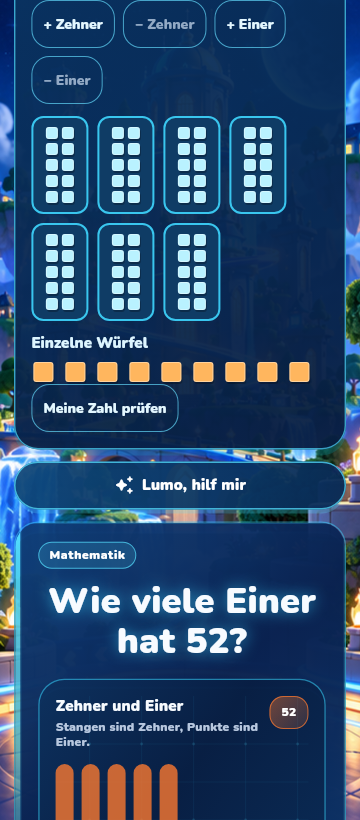
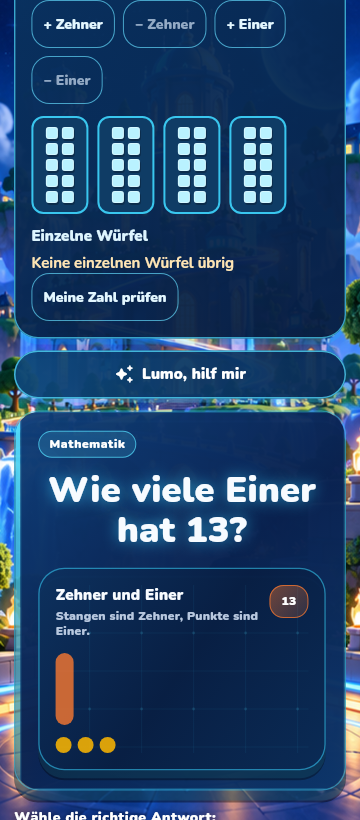
checkpoint(lumo): preserve cloud work at 2026-10-29 08:55 UTC [skip ci]

diff --git a/test/intelligence/live_alternative_scene_test.dart b/test/intelligence/live_alternative_scene_test.dart
@@ -7,6 +7,9 @@ import 'package:lumo_lernen/core/app_settings.dart';
 import 'package:lumo_lernen/core/lumo_voice.dart';
 import 'package:lumo_lernen/features/learning/learning_content.dart';
 import 'package:lumo_lernen/features/learning/widgets/lumo_learning_scene_card.dart';
+import 'package:lumo_lernen/features/learning/widgets/lumo_place_value_workshop.dart';
+import 'package:lumo_lernen/core/learning_profile_engine.dart';
+import 'package:lumo_lernen/core/progress_repository.dart';
 import 'package:lumo_lernen/widgets/fox/lumo_companion_requests.dart';
 import 'package:lumo_lernen/domain/learning_intelligence/learning_scene_contract.dart';
 import 'package:lumo_lernen/domain/learning_intelligence/scene_memory.dart';
@@ -16,7 +19,7 @@ void main() {
   TestWidgetsFlutterBinding.ensureInitialized();
   setUpAll(loadIntelligenceCaptureFonts);
   testWidgets(
-      'actual child requests a different scene; refusal is saved without competence',
+      'failed first scene, actual alternative and fresh independent transfer survive restart',
       (tester) async {
     SharedPreferences.setMockInitialValues({});
     LumoVoice.instance.isEnabled = false;
@@ -79,6 +82,56 @@ void main() {
     }
     expect(
         find.byKey(const ValueKey('lumo-scene-interactive')), findsOneWidget);
+
+    // Continue the same real lesson all the way through a new task. Refusal
+    // alone was not competence; the separate construction and question are.
+    final workshop = find.byType(LumoPlaceValueWorkshop);
+    final lessonWidget = tester.widget<LumoPlaceValueWorkshop>(workshop);
+    Future<void> tapWorkshop(String key) async {
+      final finder =
+          find.descendant(of: workshop, matching: find.byKey(ValueKey(key)));
+      await tester.ensureVisible(finder);
+      await tester.pump();
+      await tester.tap(finder);
+      await tester.pump();
+    }
+
+    for (var i = 0; i < lessonWidget.number ~/ 10; i++) {
+      await tapWorkshop('lumo-tens-block-$i');
+    }
+    await tapWorkshop('lumo-place-value-build-next');
+    final target = lessonWidget.lesson!.targetNumber;
+    expect(target, isNot(lessonWidget.number));
+    for (var i = 0; i < target ~/ 10; i++) {
+      await tapWorkshop('lumo-build-add-ten');
+    }
+    for (var i = 0; i < target % 10; i++) {
+      await tapWorkshop('lumo-build-add-one');
+    }
+    await tapWorkshop('lumo-build-check');
+    await tapWorkshop('lumo-comprehension-${target % 10}');
+    for (var i = 0; i < 30; i++) {
+      await tester.pump(const Duration(milliseconds: 16));
+      await tester.runAsync(() => Future<void>.delayed(Duration.zero));
+    }
+    expect(lessonWidget.lesson!.completion!.independent, isTrue);
+    final restarted = LearningProfileEngine(
+        repository: ProgressRepository(studentId: 'live-scene-a'));
+    await tester.runAsync(() async {
+      await restarted.loadSceneMemory();
+      await restarted.loadJourney();
+    });
+    expect(
+        restarted.sceneMemory.records.any((r) =>
+            r.outcome == SceneOutcome.notUnderstood &&
+            r.method == ExplanationMethod.verbal),
+        isTrue);
+    final receipt = restarted.sceneMemory.records.last;
+    expect(receipt.outcome, SceneOutcome.independentTransfer);
+    expect(receipt.method, ExplanationMethod.interactive);
+    expect(receipt.transferProblemId, 'place-value:$target');
+    expect(restarted.journey.records.values.single.transferCorrect, 1);
+    expect(restarted.journey.records.values.single.attempts, 1);
 
     await tester.pumpWidget(const SizedBox.shrink());
     await tester.pump();

diff --git a/docs/audit/2026-10-29/STATUS.md b/docs/audit/2026-10-29/STATUS.md
@@ -1,0 +1,80 @@
+# Living Intelligence · geprüfter Tutor-Kern
+
+Ausgangspunkt: `9fdfc3f17e640ade0912411167d4af2f73be8720`.
+Eigener Branch: `feat/lumo-living-intelligence-20261029`.
+Produktionscode nach Review-Korrekturen: `6ac7ba9bf1ecef3a61ee91c3567628c519584780`.
+`main`, die ursprüngliche 2001-Arbeit, PR #411–413 und veröffentlichte APKs
+werden durch diesen Branch nicht verändert.
+
+Der erste vollständige Durchlauf ist an echte Aufgaben angeschlossen:
+angeforderte Erklärung → Nichtverstehen → anderes Verfahren → eine neue Zahl
+selbst bauen → Einer-Rückfrage → profilgebundener dauerhafter Prozessbeleg.
+Eine falsche Zerlegung trotz richtigem Gesamtwert besteht die Prozessprüfung
+nicht. Raten, Korrektur oder zusätzliche Hilfe während der Folgeaufgabe bleiben
+unterstützte Übung. Einführung, Animation und „verstanden“ allein bestätigen
+keine Kompetenz. Wiederholte Übertragung und spätere Erinnerung werden
+konservativ getrennt.
+
+## Neue Bausteine
+
+- Deterministische Offline-Entscheidungen mit vier Erklärverfahren, begrenztem
+  Methodengedächtnis, Denkzeit und freiwilligem Aufgaben-/Pausenwechsel.
+- Partieller Graph aus 14 Lernzielen; alle Knoten besitzen mindestens einen
+  aktuellen Curriculum-Link. Übungslinks sind keine Prozessbestätigung.
+- [Learning Scene Contract v1](../../LUMO_LEARNING_SCENE_CONTRACT_V1.md) mit
+  echten Codec-/Prüfregeltests und erzeugter Zehner/Einer-Referenz.
+- Dauerhafter Zwischenbeleg für Journal + Szenengedächtnis: Wiederanlauf und
+  Retry ohne doppelte Evidenz; unbekannte Speicherstände bleiben erhalten.
+- Profilgetrennte Elternbegründungen und drei abwechslungsreiche tägliche
+  Einstiege in vorhandene Aufgaben unter Berücksichtigung der realen Schulstufe.
+
+## Prüfung
+
+43 fokussierte Unit-, Widget-, Speicher- und echte Routenfälle bestanden.
+Vollanalyse: 0 Fehler, 6 bestehende Warnungen, 106 Hinweise; Warnungen werden
+nicht verschwiegen. Die Vollregression vor den letzten Review-Korrekturen
+bestand mit 1.944 Tests und 171 übersprungenen Fällen; der abschließende
+Gesamtlauf und die GitHub-Prüfungen werden separat dokumentiert.
+
+Die synthetische Vergleichsbank enthält zehn Fälle gegen die eingefrorene
+9fdf-Tutorlogik: drei geänderte, sieben unveränderte Entscheidungen. Das belegt
+Softwareverhalten innerhalb dieser Fälle, keine empirische Lernwirksamkeit.
+[Ergebnisse](../../evidence/living-intelligence/synthetic-trajectories.json).
+
+Echte Flutter-Aufnahmen: 360×820, 280×740 mit 2× Schrift, 880×1000.
+[Alternative Darstellung](../../evidence/living-intelligence/actual-alternative-pictorial-phone.png),
+[Fold-Werkstatt](../../evidence/living-intelligence/fold-open-workshop.png),
+[große Schrift](../../evidence/living-intelligence/small-large-text-transfer-confirmed.png).
+Die Eingaben laufen durch produktive Widgets und den tatsächlichen Speicher;
+dies sind keine Mockups und kein Nachweis für physische Fold7-Bildraten.
+
+## Unabhängiger Review und Entscheidungen
+
+Ein frischer lesender Review von 9fdfc3f1 bis 0bc1f4af fand keine kritischen,
+drei wichtige und zwei kleinere Befunde. Alle fünf wurden bearbeitet:
+
+| Befund | Korrektur und Nachweis |
+|---|---|
+| Hilfe während der Folgeaufgabe fälschlich selbstständig | Companion- und Alternativkartenpfad markieren aktive Konstruktion/Rückfrage; beide echten Routen bleiben unterstützt |
+| Beliebiger Unit-Erfolg bestätigt ein Prozesskonzept | Ohne konzeptspezifischen Validatorbeleg höchstens Beobachtung; verknüpfte Belegidentität, unabhängige Vielfalt und aktuelle Fehlerlage werden geprüft |
+| Fremde explizite Profil-Lease akzeptiert einen Abschluss | Beleggeneration muss auch zur expliziten Lease passen; ursprüngliche Lease bleibt nach Auswahlwechsel verwendbar |
+| Erschöpfte Alternativen überschreiben die Methode | Nur tatsächlich gewählte Szene bestimmt die gespeicherte Methode; guided bleibt auch nach offerPause erhalten |
+| Bündelziel ohne erreichbare Aufgabe | Aktuelle Zehner/Einer-Werkstatt verknüpft; Test prüft Erreichbarkeit jedes Katalogknotens |
+
+19 gezielte Regressionstests bestätigen die Korrekturen. Keine dieser fünf
+Korrekturen wurde vertagt. Lesen-/Silben-/Satzbau-Werkstätten, breitere
+Lehrplanprüfung, zusätzliche Original-Lumo-Animationen und nachgewiesene lokale
+Spracheingabe bleiben spätere Meilensteine. Schreibtrainer, Journal, Wallet
+und native Kart-Implementierungen bleiben erhalten.
+
+## Android
+
+Neueste veröffentlichte Haupt-App: `lumo-0.12.88-2000`, 317.118.938 Bytes,
+veröffentlicht am 28.10.2026. Echter 1999→2000-Update-Lauf `40731470609`,
+Gesamt-APK-Lauf `40731470822` und Veröffentlichung `40731470774`: erfolgreich.
+Godot bleibt unverändert auf `adcce3093caa42bf3da47262f70bdf03cdefa347`.
+
+Der Tutor-Kern ist keine neue APK-Veröffentlichung. Ein nächster separater
+Android-Kandidat muss denselben Paketnamen und dieselbe Signatur behalten,
+vollständige Sicherheits-/Speichertests, Android-Tour und echtes Update bestehen.
+Build 2001 bleibt für den unveränderten vorherigen Branch reserviert.

diff --git a/docs/audit/2026-10-29/CONTINUE.md b/docs/audit/2026-10-29/CONTINUE.md
@@ -1,0 +1,33 @@
+# Wiederaufnahme · Living Intelligence
+
+1. Aktuellen Remote-Stand und offene PRs prüfen; keine lokale Arbeit überschreiben.
+   Tutor-Kern: `feat/lumo-living-intelligence-20261029`, ab 9fdfc3f1.
+   Letzter Produktionspatch: 6ac7ba9bf1ecef3a61ee91c3567628c519584780.
+2. Draft-PR und dessen tatsächliche GitHub-Jobs prüfen. Der neue Workflow
+   `.github/workflows/lumo-living-intelligence-core.yml` führt Analyse, alle
+   Intelligence-Fälle, echte Routenaufnahmen und die vollständige Flutter-Suite
+   auf dem PR-Head aus. Artefakte enthalten Source-SHA und Protokolle.
+3. Lokal reproduzieren mit Flutter 3.44.9:
+   `flutter pub get --enforce-lockfile`,
+   `flutter analyze --no-fatal-infos --no-fatal-warnings`,
+   `flutter test --no-pub --reporter=expanded --timeout=60s --concurrency=2`.
+   Für neue Aufnahmen `LUMO_INTELLIGENCE_EVIDENCE` und
+   `LUMO_TUTOR_BRAIN_CAPTURES` auf ein geprüftes Ausgabeverzeichnis setzen.
+4. Keine erneute Erfindung des Kerns: Engine, Graph, Contract, Validator,
+   Write-ahead-Beleg und echte Stellenwert-Routen existieren. Methodenfeedback
+   ist keine Kompetenz; zusätzliche Hilfe im Transfer bleibt unterstützt.
+   Die ursprüngliche Profil-Lease darf akzeptierte Arbeit weiter speichern,
+   eine fremde Generation darf keinen Abschluss übernehmen.
+5. Android-Auslieferung getrennt vorbereiten. Build 2000 ist veröffentlicht,
+   2001 gehört dem bisherigen Tutor-Branch. Für einen eigenen neuen Kandidaten
+   Version, Pin-Policy, Tour, echtes 2000-Update und immutable Direct-APK-Gate
+   separat fortschreiben. Alte Workflows/Signaturen/Assets nicht überschreiben.
+   Erst nach tatsächlichen Gates einen neuen Chrome-HTTPS-Link ausgeben.
+6. Weiterer Fachumfang: echte Textstellen-/Silben-/Satzbau-Szenen an vorhandene
+   Module anbinden; jeder Prozess braucht einen passenden Validator. Der
+   14-Knoten-Graph ist eine partielle Aufgabenlandkarte, kein vollständiger
+   Lehrplannachweis. Lokale Spracheingabe erst nach echtem Gerätenachweis.
+
+Regelmäßig `python3 tools/lumo_autosave.py once` ausführen. Checkpoints mit
+`[skip ci]` sind Sicherungen, keine Qualitätsfreigabe. Vor dem nächsten PR-Head
+einen regulären Commit erzeugen und dessen CI-Ausführung überprüfen.
